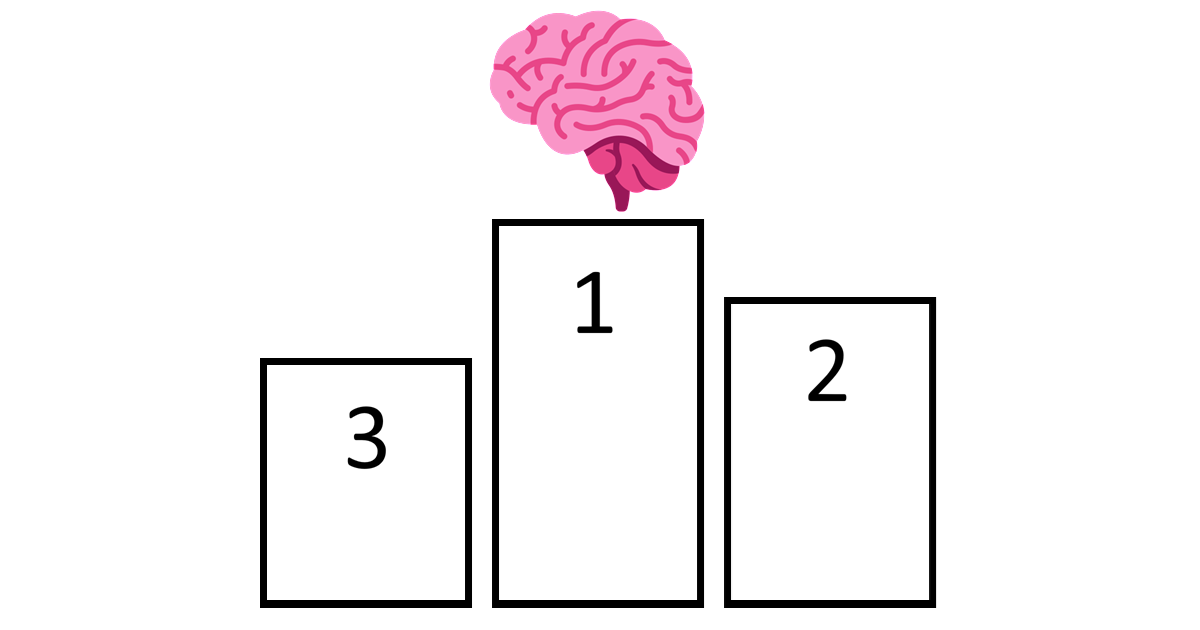
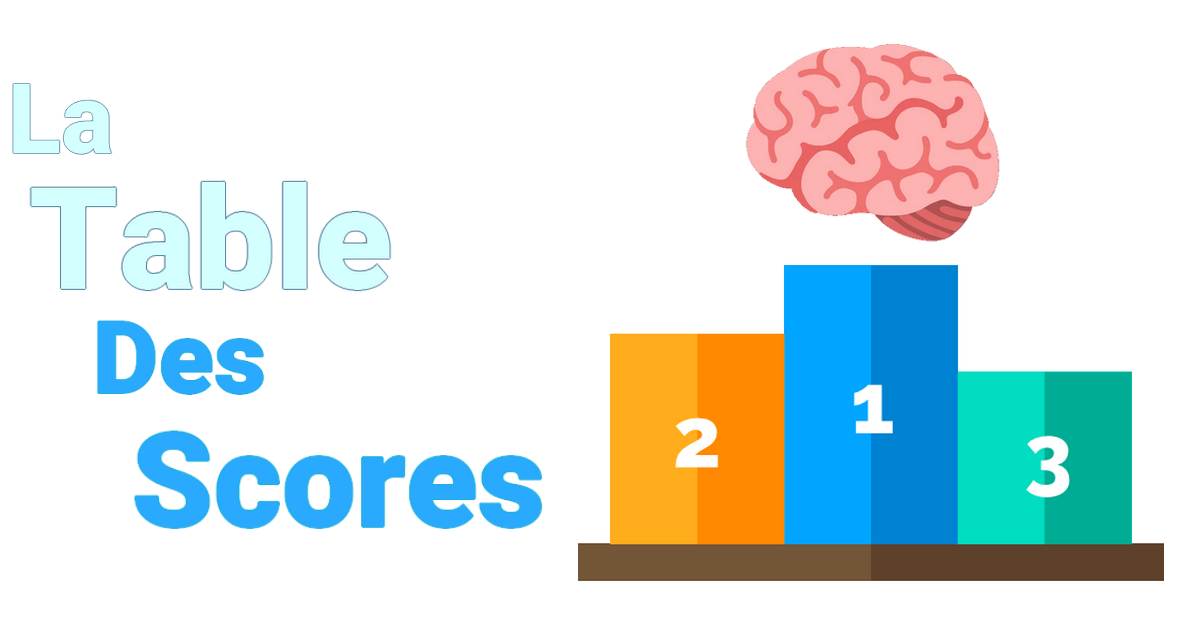
feat: enhance sitemap and robots.txt response handling with explicit headers and changed og-image

diff --git a/_worker.js b/_worker.js
@@ -166,6 +166,20 @@ export default {
       ? '/'
       : url.pathname.replace(/\/+$/, '') || '/';
     if (ALLOWED_STATIC.has(normalized) || ALLOWED_STATIC.has(normalized + '/index.html')) {
+      // Sitemap et robots.txt : renvoyer une reponse explicite, bien identifiable
+      // par les crawlers (Content-Type, Vary: Accept-Encoding, cache positif).
+      // Le passthrough brut via env.ASSETS.fetch ne fournit pas toujours
+      // l'en-tete Vary, ce qui peut faire echouer la lecture du sitemap dans GSC.
+      if (normalized === '/sitemap.xml' || normalized === '/robots.txt') {
+        const asset = await env.ASSETS.fetch(request);
+        const body = await asset.arrayBuffer();
+        const isXml = normalized === '/sitemap.xml';
+        const headers = new Headers(asset.headers);
+        headers.set('content-type', isXml ? 'application/xml; charset=utf-8' : 'text/plain; charset=utf-8');
+        headers.set('cache-control', 'public, max-age=3600');
+        headers.set('vary', 'Accept-Encoding');
+        return new Response(body, { status: asset.status, statusText: asset.statusText, headers });
+      }
       return env.ASSETS.fetch(request);
     }
     return new Response('Not found', { status: 404, headers: { 'cache-control': 'no-store' } });
